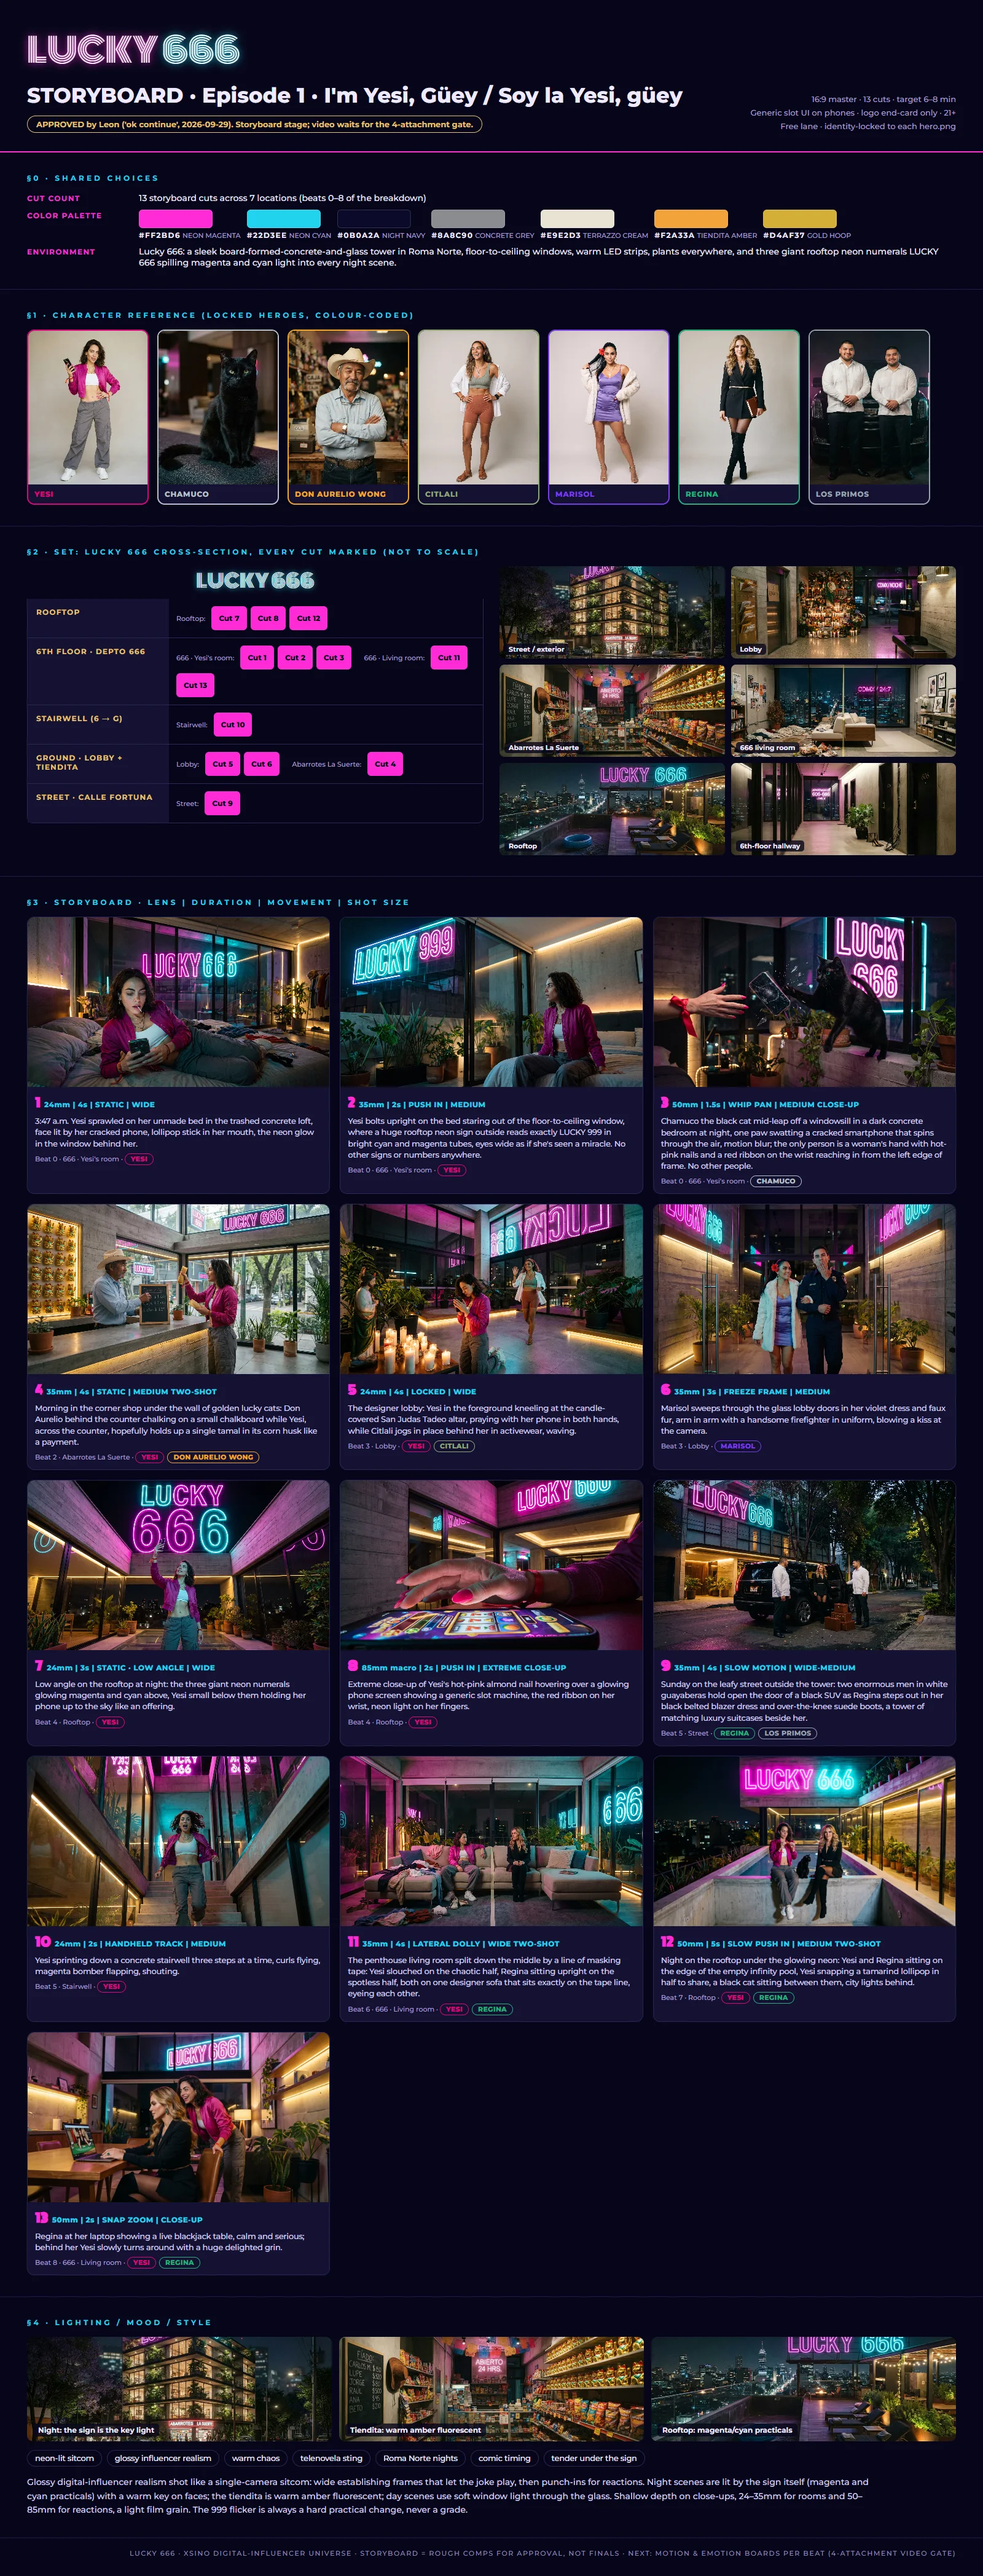
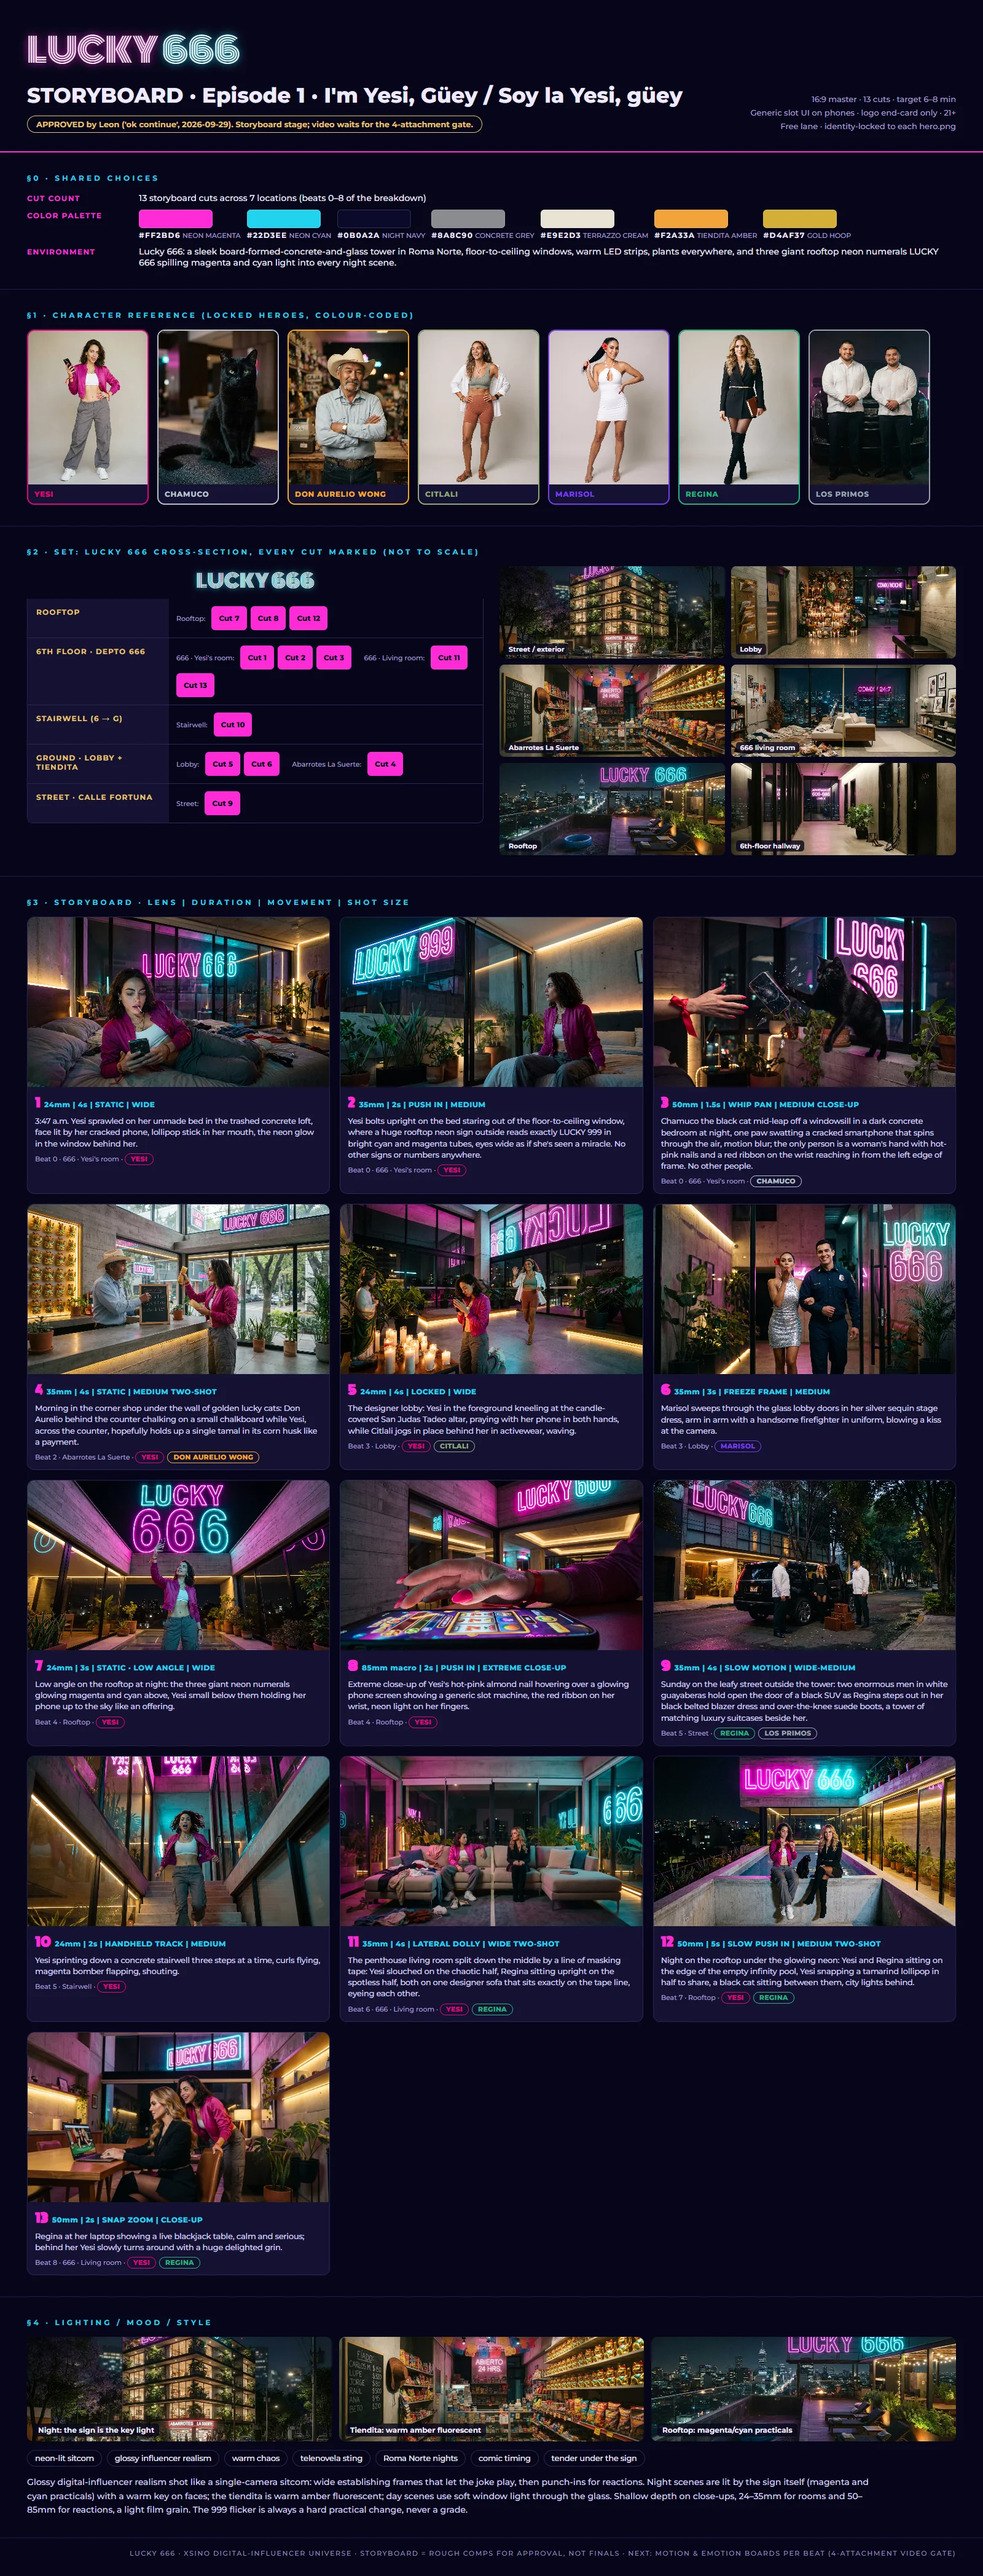
Lucky 666 v7: unique wardrobes (4 looks per girl), Marisol re-dressed from Leon's S5 refs

Changed region(s): [[0.6562, 0.4654, 0.9688, 0.5585], [0.5938, 0.1241, 0.6875, 0.1862]]

diff --git a/xsino/Lucky666/data.js b/xsino/Lucky666/data.js
@@ -980,8 +980,8 @@ window.LUCKY666 = {
    "color": "#7C3AED",
    "palette": [
     [
-     "VIOLET SATIN (dress)",
-     "#7C3AED"
+     "WHITE STRETCH (halter mini)",
+     "#F4F1EC"
     ],
     [
      "CANDELA RED (nails, flower)",
@@ -1000,8 +1000,8 @@ window.LUCKY666 = {
      "#D6A84A"
     ],
     [
-     "FAUX-FUR IVORY",
-     "#EEE6DA"
+     "STAGE SEQUIN SILVER",
+     "#C9CCD3"
     ],
     [
      "STAGE MAGENTA",
@@ -1013,8 +1013,8 @@ window.LUCKY666 = {
     ]
    ],
    "materials": [
-    "DRESS: liquid satin",
-    "COAT: plush faux fur",
+    "DRESS: stretch jersey, keyhole cut-out",
+    "STAGE DRESS: silver sequins",
     "HEELS: metallic leather straps",
     "FLOWER: silk hibiscus",
     "NECKLACES: layered fine gold",
@@ -1085,7 +1085,7 @@ window.LUCKY666 = {
      "jarocha: fast, musical, drops her s's, calls everyone 'papito'"
     ]
    ],
-   "look": "Cabaret bombshell: violet satin bodycon mini, gold heels, faux fur off the shoulders, a sleek jet-black high ponytail with a red hibiscus, smoky almond eyes, gold teardrop hoops, red almond nails. Never without a man, never remembers his name.",
+   "look": "Go-go bombshell: a white halter keyhole mini by day, silver sequins on stage, a sleek jet-black high ponytail with a red hibiscus, smoky almond eyes, gold teardrop hoops, red almond nails. Never without a man, never remembers his name.",
    "personality": [
     "Confident, flirty and hilariously blunt about romance",
     "Big-hearted: the building's nurse, therapist and love doctor",
@@ -1136,7 +1136,7 @@ window.LUCKY666 = {
     "Dance lessons on the roof: salsa and son jarocho with the girls"
    ],
    "voice": "Musical, fast jarocha Spanish, flirty, warm, brutally honest about men.",
-   "anchor": "Marisol, a 27-year-old Mexican woman from Veracruz: a long elegant oval face with sharply sculpted high cheekbones, a slim straight nose, a defined jaw and a long graceful neck, large dark almond-shaped eyes with smoky dark-brown liner and long lashes, strong defined dark brows with a clean arch, full lips with a nude-pink gloss, luminous bronzed caramel skin with a dewy glow, and long glossy jet-black hair slicked back from a center part into a sleek high ponytail, with polished bronzed glam: smoky almond eyes, long lashes, luminous highlighted skin, nude-pink gloss, and a tall slim bombshell figure with a tiny cinched waist, a toned flat stomach and long slender toned legs. She wears a short violet satin bodycon mini dress with thin straps, strappy gold heels and an ivory faux-fur coat slipping off her shoulders, large thin gold teardrop hoop earrings, layered fine gold necklaces, long glossy red almond nails, and a small red hibiscus flower pinned at the base of her ponytail."
+   "anchor": "Marisol, a 27-year-old Mexican woman from Veracruz: a long elegant oval face with sharply sculpted high cheekbones, a slim straight nose, a defined jaw and a long graceful neck, large dark almond-shaped eyes with smoky dark-brown liner and long lashes, strong defined dark brows with a clean arch, full lips with a nude-pink gloss, luminous bronzed caramel skin with a dewy glow, and long glossy jet-black hair slicked back from a center part into a sleek high ponytail, with polished bronzed glam: smoky almond eyes, long lashes, luminous highlighted skin, nude-pink gloss, and a tall slim bombshell figure with a tiny cinched waist, a toned flat stomach and long slender toned legs. She wears a white stretch halter-neck bodycon mini dress with a sculpted keyhole cut-out at the front, clear-strap high heels, large thin gold teardrop hoop earrings, a fine gold necklace, long glossy red almond nails, and a small red hibiscus flower at the base of her ponytail."
   }
  ],
  "episodes": [
@@ -1516,7 +1516,7 @@ window.LUCKY666 = {
   "marisol": {
    "door": "626",
    "day": "Day 5",
-   "action": "blowing a kiss at the camera while a handsome man in a firefighter uniform stands behind her slightly out of focus, holding her faux-fur coat",
+   "action": "blowing a kiss at the camera while a handsome man in a firefighter uniform stands behind her slightly out of focus, holding her gold clutch",
    "en": "626 🌺 Veracruz girl in the big city. The show's at La Gata Negra, right across the street. Him? Oh, that's… the firefighter. 😘🔥",
    "es": "626 🌺 Jarocha en la gran ciudad. El show es en La Gata Negra, aquí enfrente. ¿Él? Ah, es… el bombero. 😘🔥",
    "tags": "#Lucky666 #Candela"
@@ -1758,7 +1758,7 @@ window.LUCKY666 = {
     "dur": "3s",
     "move": "FREEZE FRAME",
     "size": "MEDIUM",
-    "action": "Marisol sweeps through the glass lobby doors in her violet dress and faux fur, arm in arm with a handsome firefighter in uniform, blowing a kiss at the camera."
+    "action": "Marisol sweeps through the glass lobby doors in her silver sequin stage dress, arm in arm with a handsome firefighter in uniform, blowing a kiss at the camera."
    },
    {
     "n": 7,
@@ -1902,7 +1902,7 @@ window.LUCKY666 = {
     "expressions": null,
     "head": null,
     "details": null,
-    "wardrobe": null,
+    "wardrobe": "assets/chars/yesi/wardrobe.webp",
     "lighting": null,
     "board": "assets/chars/yesi/board.webp"
    },
@@ -1914,7 +1914,7 @@ window.LUCKY666 = {
     "expressions": null,
     "head": null,
     "details": null,
-    "wardrobe": null,
+    "wardrobe": "assets/chars/regina/wardrobe.webp",
     "lighting": null,
     "board": "assets/chars/regina/board.webp"
    },
@@ -1926,7 +1926,7 @@ window.LUCKY666 = {
     "expressions": null,
     "head": null,
     "details": null,
-    "wardrobe": null,
+    "wardrobe": "assets/chars/citlali/wardrobe.webp",
     "lighting": null,
     "board": "assets/chars/citlali/board.webp"
    },
@@ -1938,7 +1938,7 @@ window.LUCKY666 = {
     "expressions": null,
     "head": null,
     "details": null,
-    "wardrobe": null,
+    "wardrobe": "assets/chars/lupe/wardrobe.webp",
     "lighting": null,
     "board": "assets/chars/lupe/board.webp"
    },
@@ -1950,7 +1950,7 @@ window.LUCKY666 = {
     "expressions": null,
     "head": null,
     "details": null,
-    "wardrobe": null,
+    "wardrobe": "assets/chars/marisol/wardrobe.webp",
     "lighting": null,
     "board": "assets/chars/marisol/board.webp"
    }
@@ -1994,5 +1994,5 @@ window.LUCKY666 = {
    }
   }
  },
- "built": "2026-09-30T00:05:22.503Z"
+ "built": "2026-09-30T00:52:45.971Z"
 };

diff --git a/xsino/Lucky666/index.html b/xsino/Lucky666/index.html
@@ -332,7 +332,7 @@ $("tenantGrid").innerHTML = C.map((c) => {
     <div class="meta"><div class="nm">${esc(c.name)}</div><div class="al">${esc(c.alias)}</div><span class="vc" style="color:${c.color === "#1B2A4A" ? "#c9a24a" : c.color}">${esc(c.vice)}</span></div></div>`;
 }).join("");
 
-const PANEL_NAMES = [["turnaround", "Views / Turnaround"], ["expressions", "Expressions"], ["head", "Head Detail"], ["details", "Macro Details"], ["wardrobe", "Wardrobe Flat-Lay"], ["lighting", "Lighting / Mood"]];
+const PANEL_NAMES = [["turnaround", "Views / Turnaround"], ["expressions", "Expressions"], ["head", "Head Detail"], ["details", "Macro Details"], ["wardrobe", "Wardrobe · her own looks"], ["lighting", "Lighting / Mood"]];
 function tabHTML(c, t) {
   const a = A.chars[c.key] || {};
   if (t === "profile") return `<div class="cols"><div>
